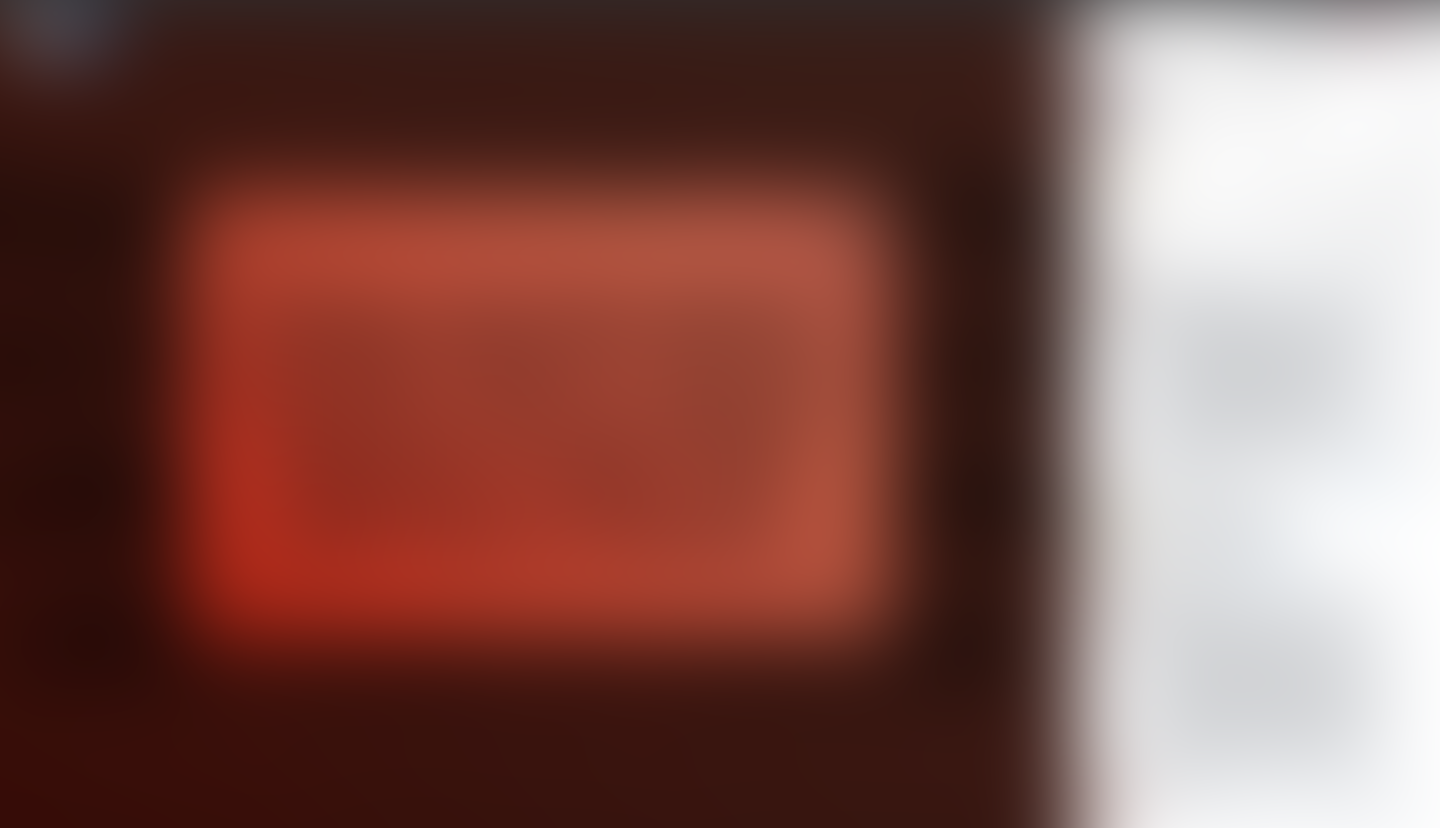
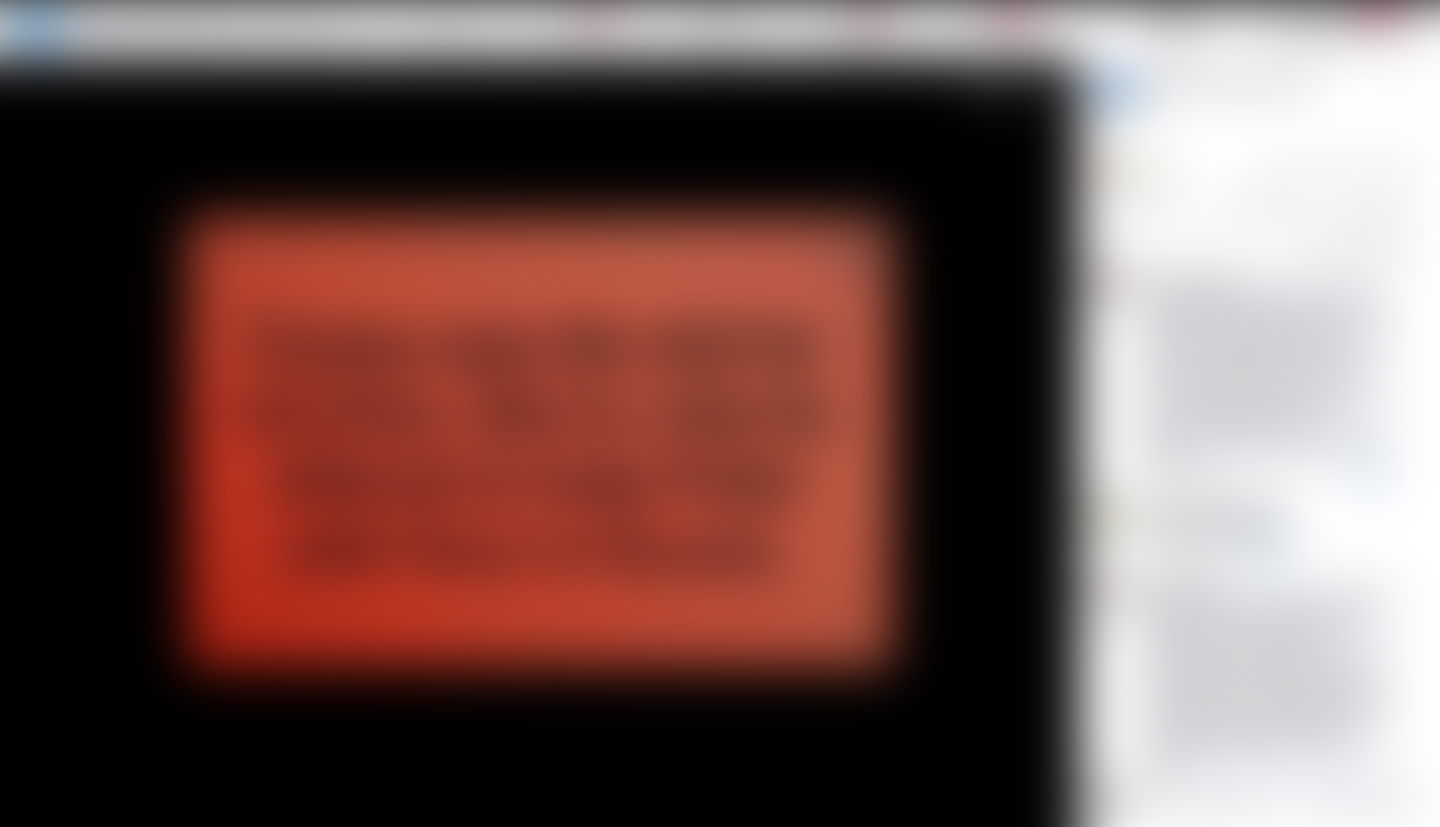
deleted old pics | replaced

diff --git a/index.html b/index.html
@@ -95,7 +95,7 @@
   var mainImg_src = 'images_main/';
   var mainBlur_src = 'images_main/blur/';
   var mainImg_set = [
-    "fl1", "fl2", "fl3", "fl4", "fl5", "fl6", "fl7", "fl8", "fl9", "fl10", "fl11", "fl12", "fl13", "fl14", "fl15","fl16", "fl17", "fr1", "fr2", "fr3", "fr4", "fr5", "fr6"
+  "fr29", "m1", "fr3", "fr23", "fr1", "fl6", "fl15", "fr2", "fl1", "fr4", "fr32", "fl21", "fl22", "fr12", "fl5", "fl16", "fr31", "fl11", "fl3", "fl13"
   ];
 
   randomPick = main_image_arr => main_image_arr[Math.floor(Math.random()*main_image_arr.length)]
